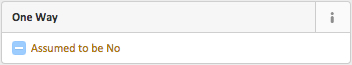
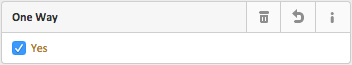
complete road attributes, update oneway preset img

Changed region(s): [[0.0312, 0.6154, 0.3438, 0.8615], [0.7188, 0.1538, 0.7812, 0.3692], [0.8125, 0.1538, 0.875, 0.3692]]

diff --git a/_site/jekyll.html b/_site/jekyll.html
@@ -2817,9 +2817,9 @@
             </a>
             <dl>
               <dt>Description</dt>
-              <dd></dd>
+              <dd>Oneway indicates the oneway access restriction on roads. Learn more from the <a href="http://wiki.openstreetmap.org/wiki/Key:oneway">OSM wiki</a>.</dd>
               <dt>How to Map</dt>
-              <dd>Add a road's surface by selecting the associated way and choosing the appropriate surface type from the "Surface" form in the "Edit feature" menu:</dd>
+              <dd>Add oneway access by selecting the associated way and clicking "Assumed to be No" in the "One Way" form of the "Edit feature" menu, which will change to "Yes" after selection. Note that ways have a directionality, so the direction in which you map the way determines its directionality. However, you can change the <code>oneway=yes</code> tag to <code>oneway=-1</code> in the "All tags" table of the "Edit feature" menu to reverse its existing directionality (appropriate when a way's directionality already governs another attribute such as a bus route).</dd>
             </dl>
             <img class="img-preset-margin-b10 img-responsive img-thumbnail" src="assets/img/preset_oneway.jpg">
             <p>
@@ -2858,9 +2858,9 @@
             </a>
             <dl>
               <dt>Description</dt>
-              <dd></dd>
+              <dd>Lanes indicate the number of traffic lanes on a highway that are available to motorized traffic (bicycle lanes are therefore excluded). Learn more from the <a href="http://wiki.openstreetmap.org/wiki/Key:lanes">OSM wiki</a>.</dd>
               <dt>How to Map</dt>
-              <dd></dd>
+              <dd>Classify the number of lanes a road has by selecting the associated way and entering the appropriate number into the "Lanes" form of the "Edit feature" menu:</dd>
             </dl>
             <img class="img-preset-margin-b10 img-responsive img-thumbnail" src="assets/img/preset_lanes.jpg">
             <p>
@@ -2899,9 +2899,9 @@
             </a>
             <dl>
               <dt>Description</dt>
-              <dd></dd>
+              <dd>Speed limit indicates the maximum legal speed limit for general traffic on a road. Learn more from the <a href="http://wiki.openstreetmap.org/wiki/Key:maxspeed">OSM wiki</a>.</dd>
               <dt>How to Map</dt>
-              <dd></dd>
+              <dd>Classify a road's speed limit by selecting the associated way and entering the appropriate number into the "Speed Limit" form of the "Edit feature" menu, along with the appropriate unit of measure (<code>mph</code> is the default).</dd>
             </dl>
             <img class="img-preset-margin-b10 img-responsive img-thumbnail" src="assets/img/preset_maxspeed.jpg">
             <p>
